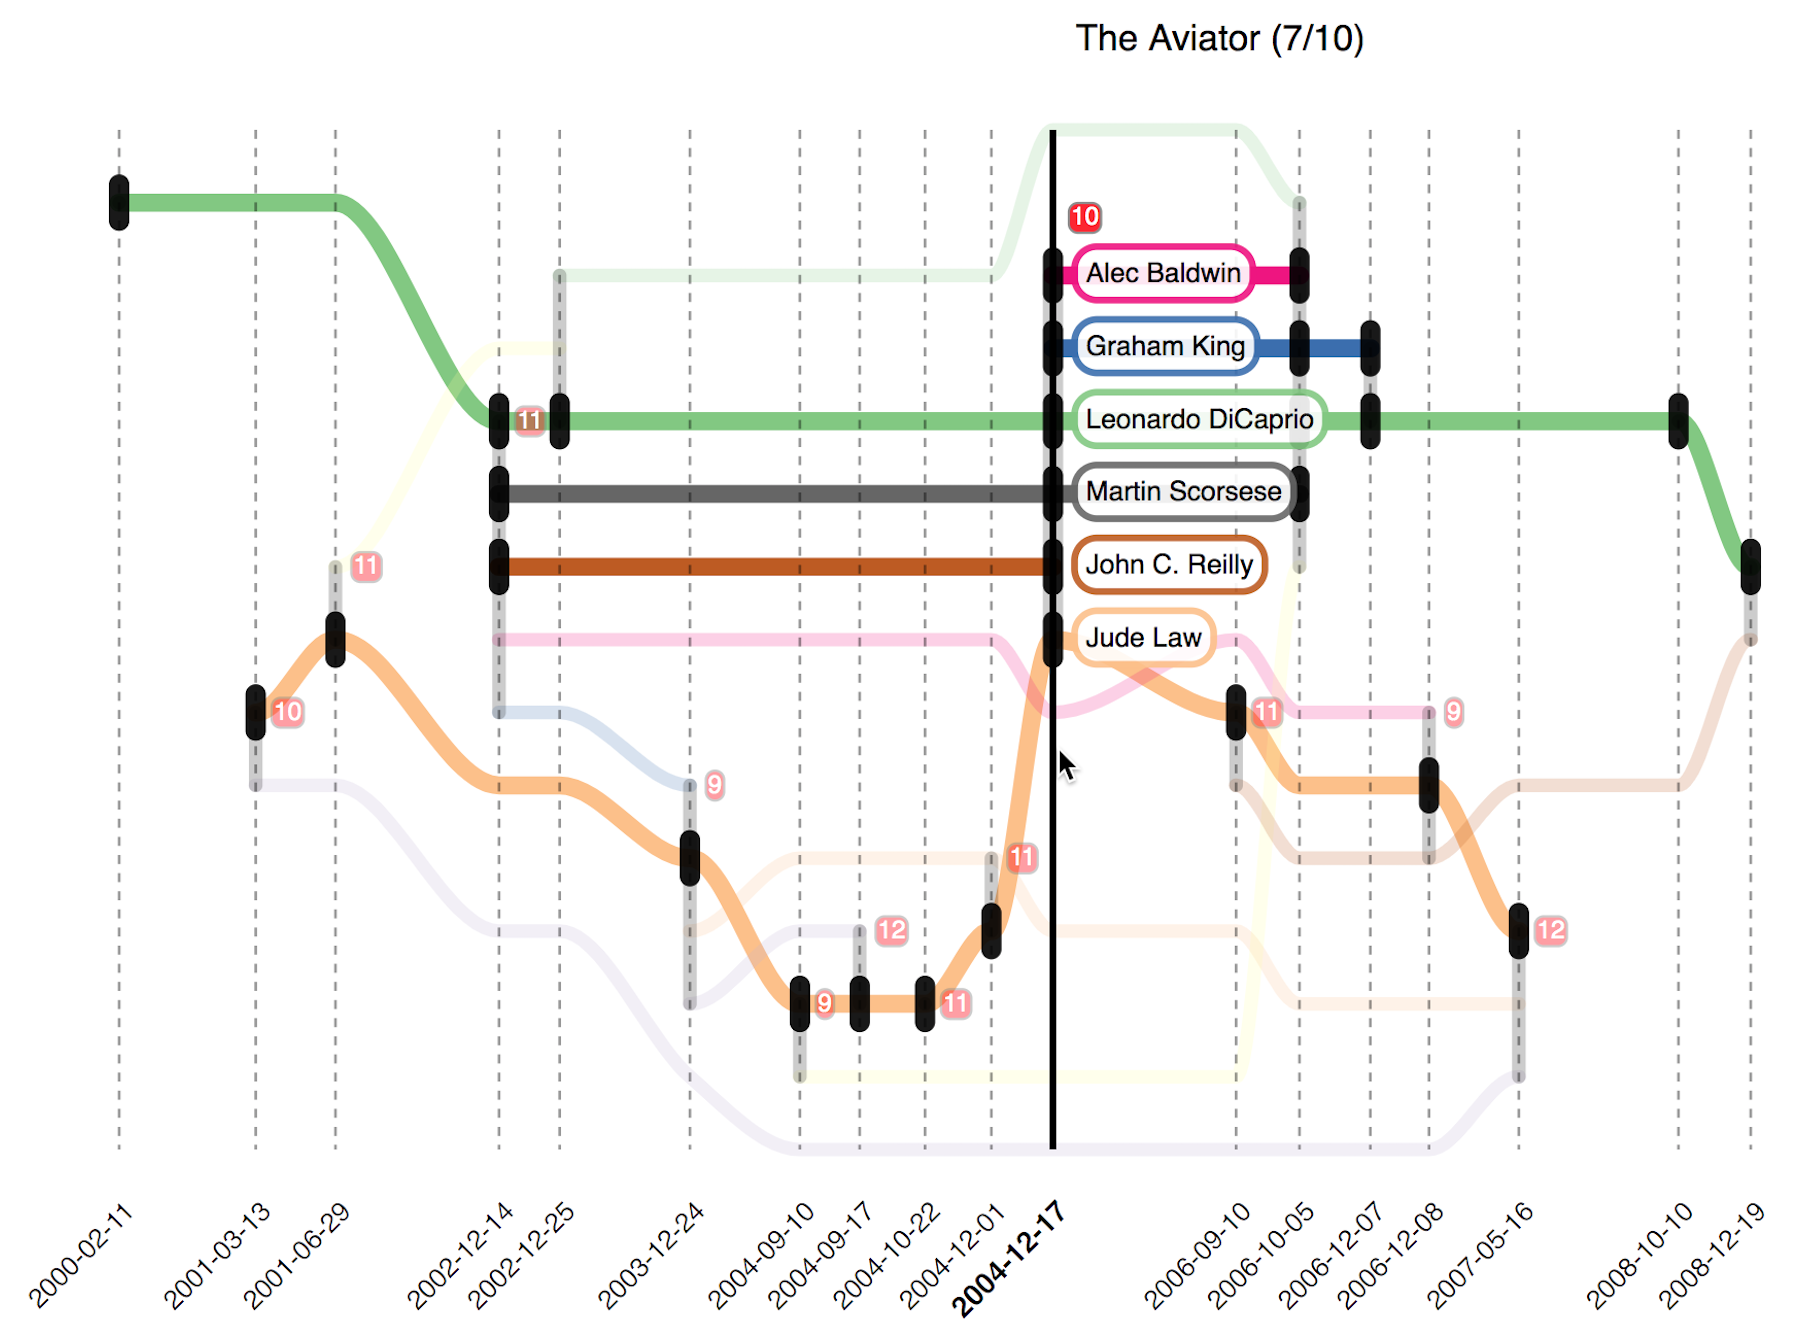
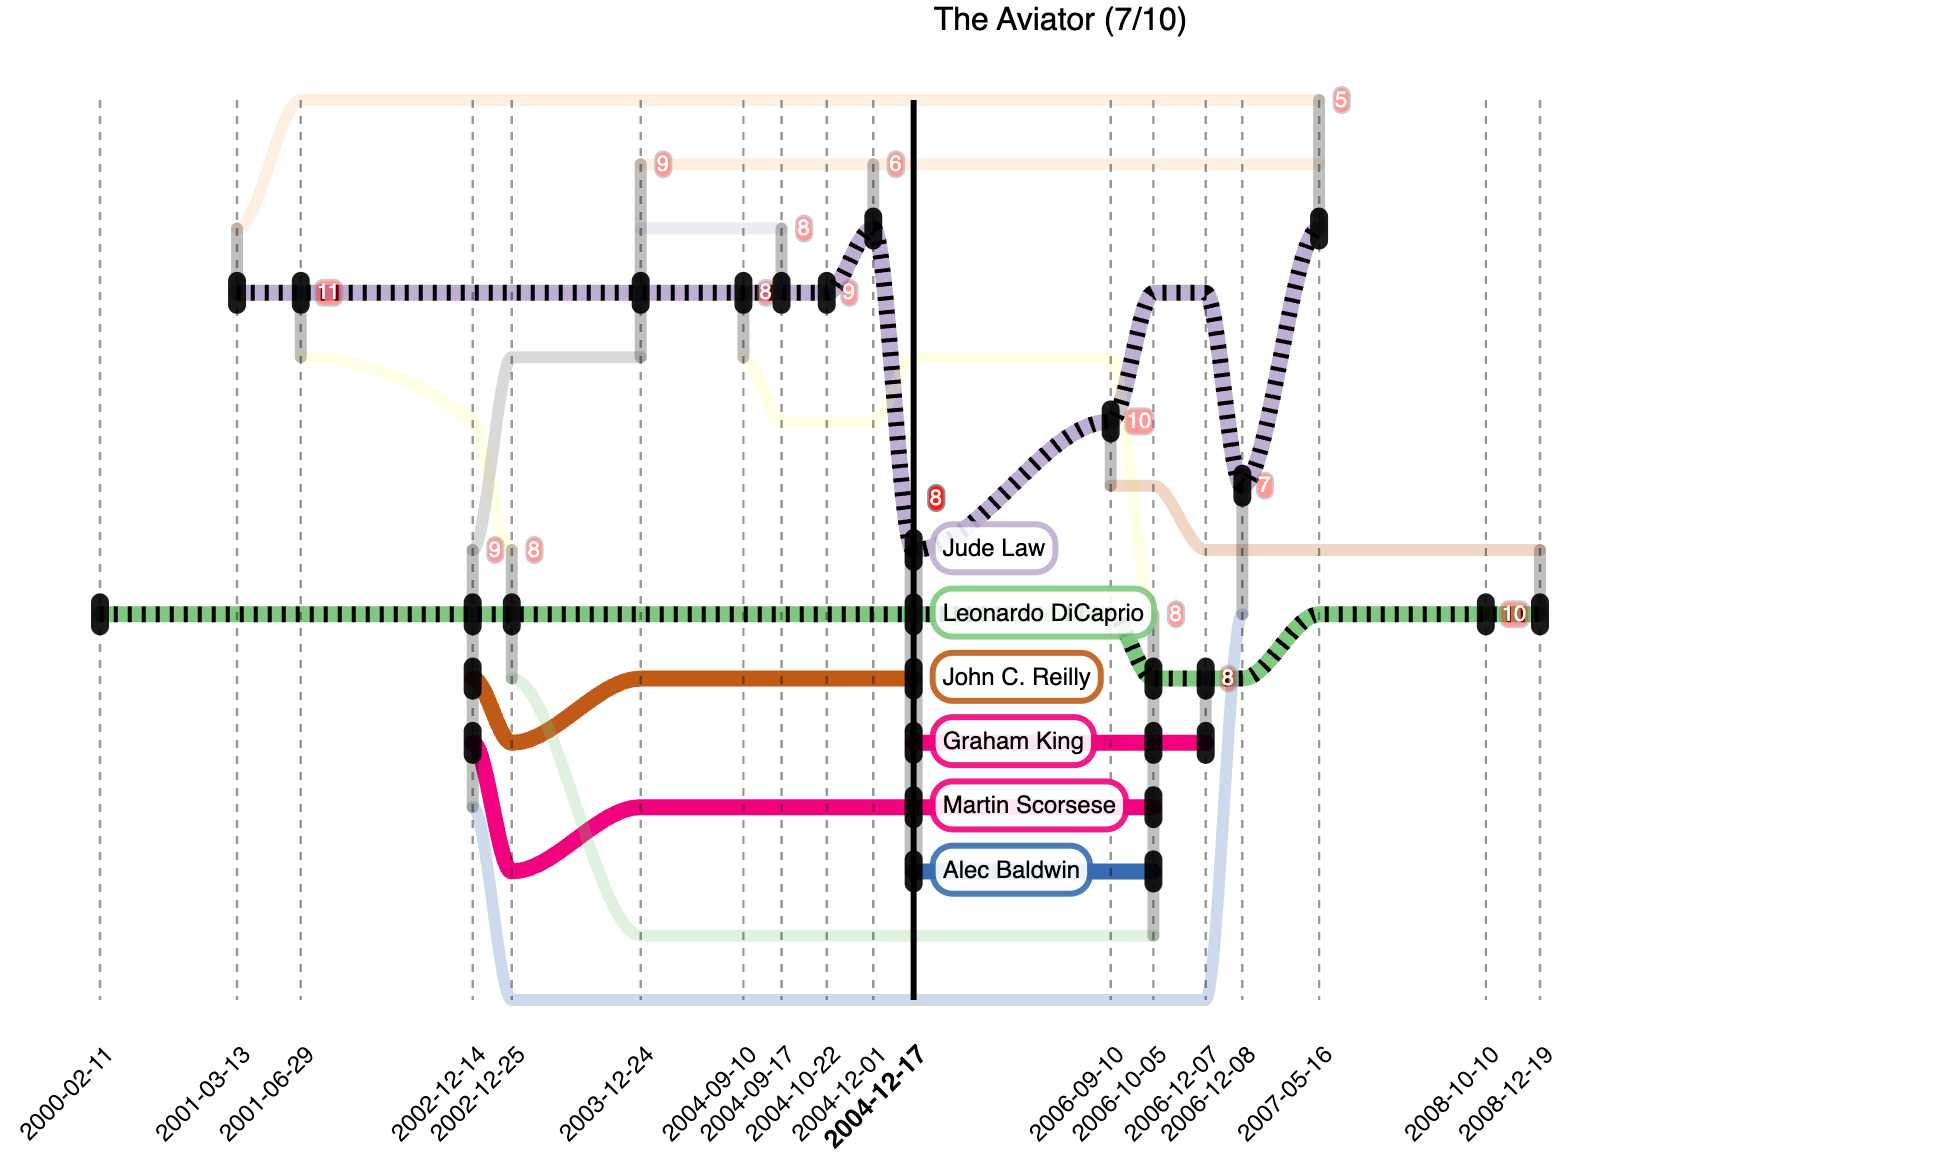
better readme

diff --git a/README.md b/README.md
@@ -26,10 +26,17 @@ Band lineups, governments, boards of directors, sports teams, conference partici
 
 *The Swiss Federal Council since 1983 — compact layout, actors colored by party.*
 
+<p align="center">
+    <img alt="Event bar extent comparison" src="https://raw.githubusercontent.com/FranzFlueckiger/Storygram/master/doc/images/example-event-bars.png" width="1200">
+</p>
+
+*Left: participant-only event bars (default). Right: extended event bars (`extendEventBar: true`), where connectors span unrelated actors to keep lines straighter.*
+
 ## Features
 
 - **Three data formats** — array, table, and range-shaped input (see below)
 - **Deterministic layout** — one optimized global actor order keeps lines straight; weighted group compaction can trade a little movement for tighter group connectors
+- **Participant-only or extended event bars** — choose whether connectors cover only an event's actors or span across unrelated actors; works in compact and expanded layouts
 - **Powerful filtering** — filter by event value, group size, actor frequency, actor lifetime, must/should-contain queries, or fully custom callbacks
 - **Compact & continuous modes** — center actors around the axis or keep actors visible between events
 - **Fully configurable** — colors, highlights, margins, spacing, event labels, clickable URLs, tooltips, and d3 color schemes
@@ -117,6 +124,9 @@ const config: Config = {
 
   // center groups around the x-axis
   compact: true,
+
+  // let event bars cover only their participants (default)
+  extendEventBar: false,
 
   // color actors by a data field
   actorColor: (event, actor) => actor.data.party,
